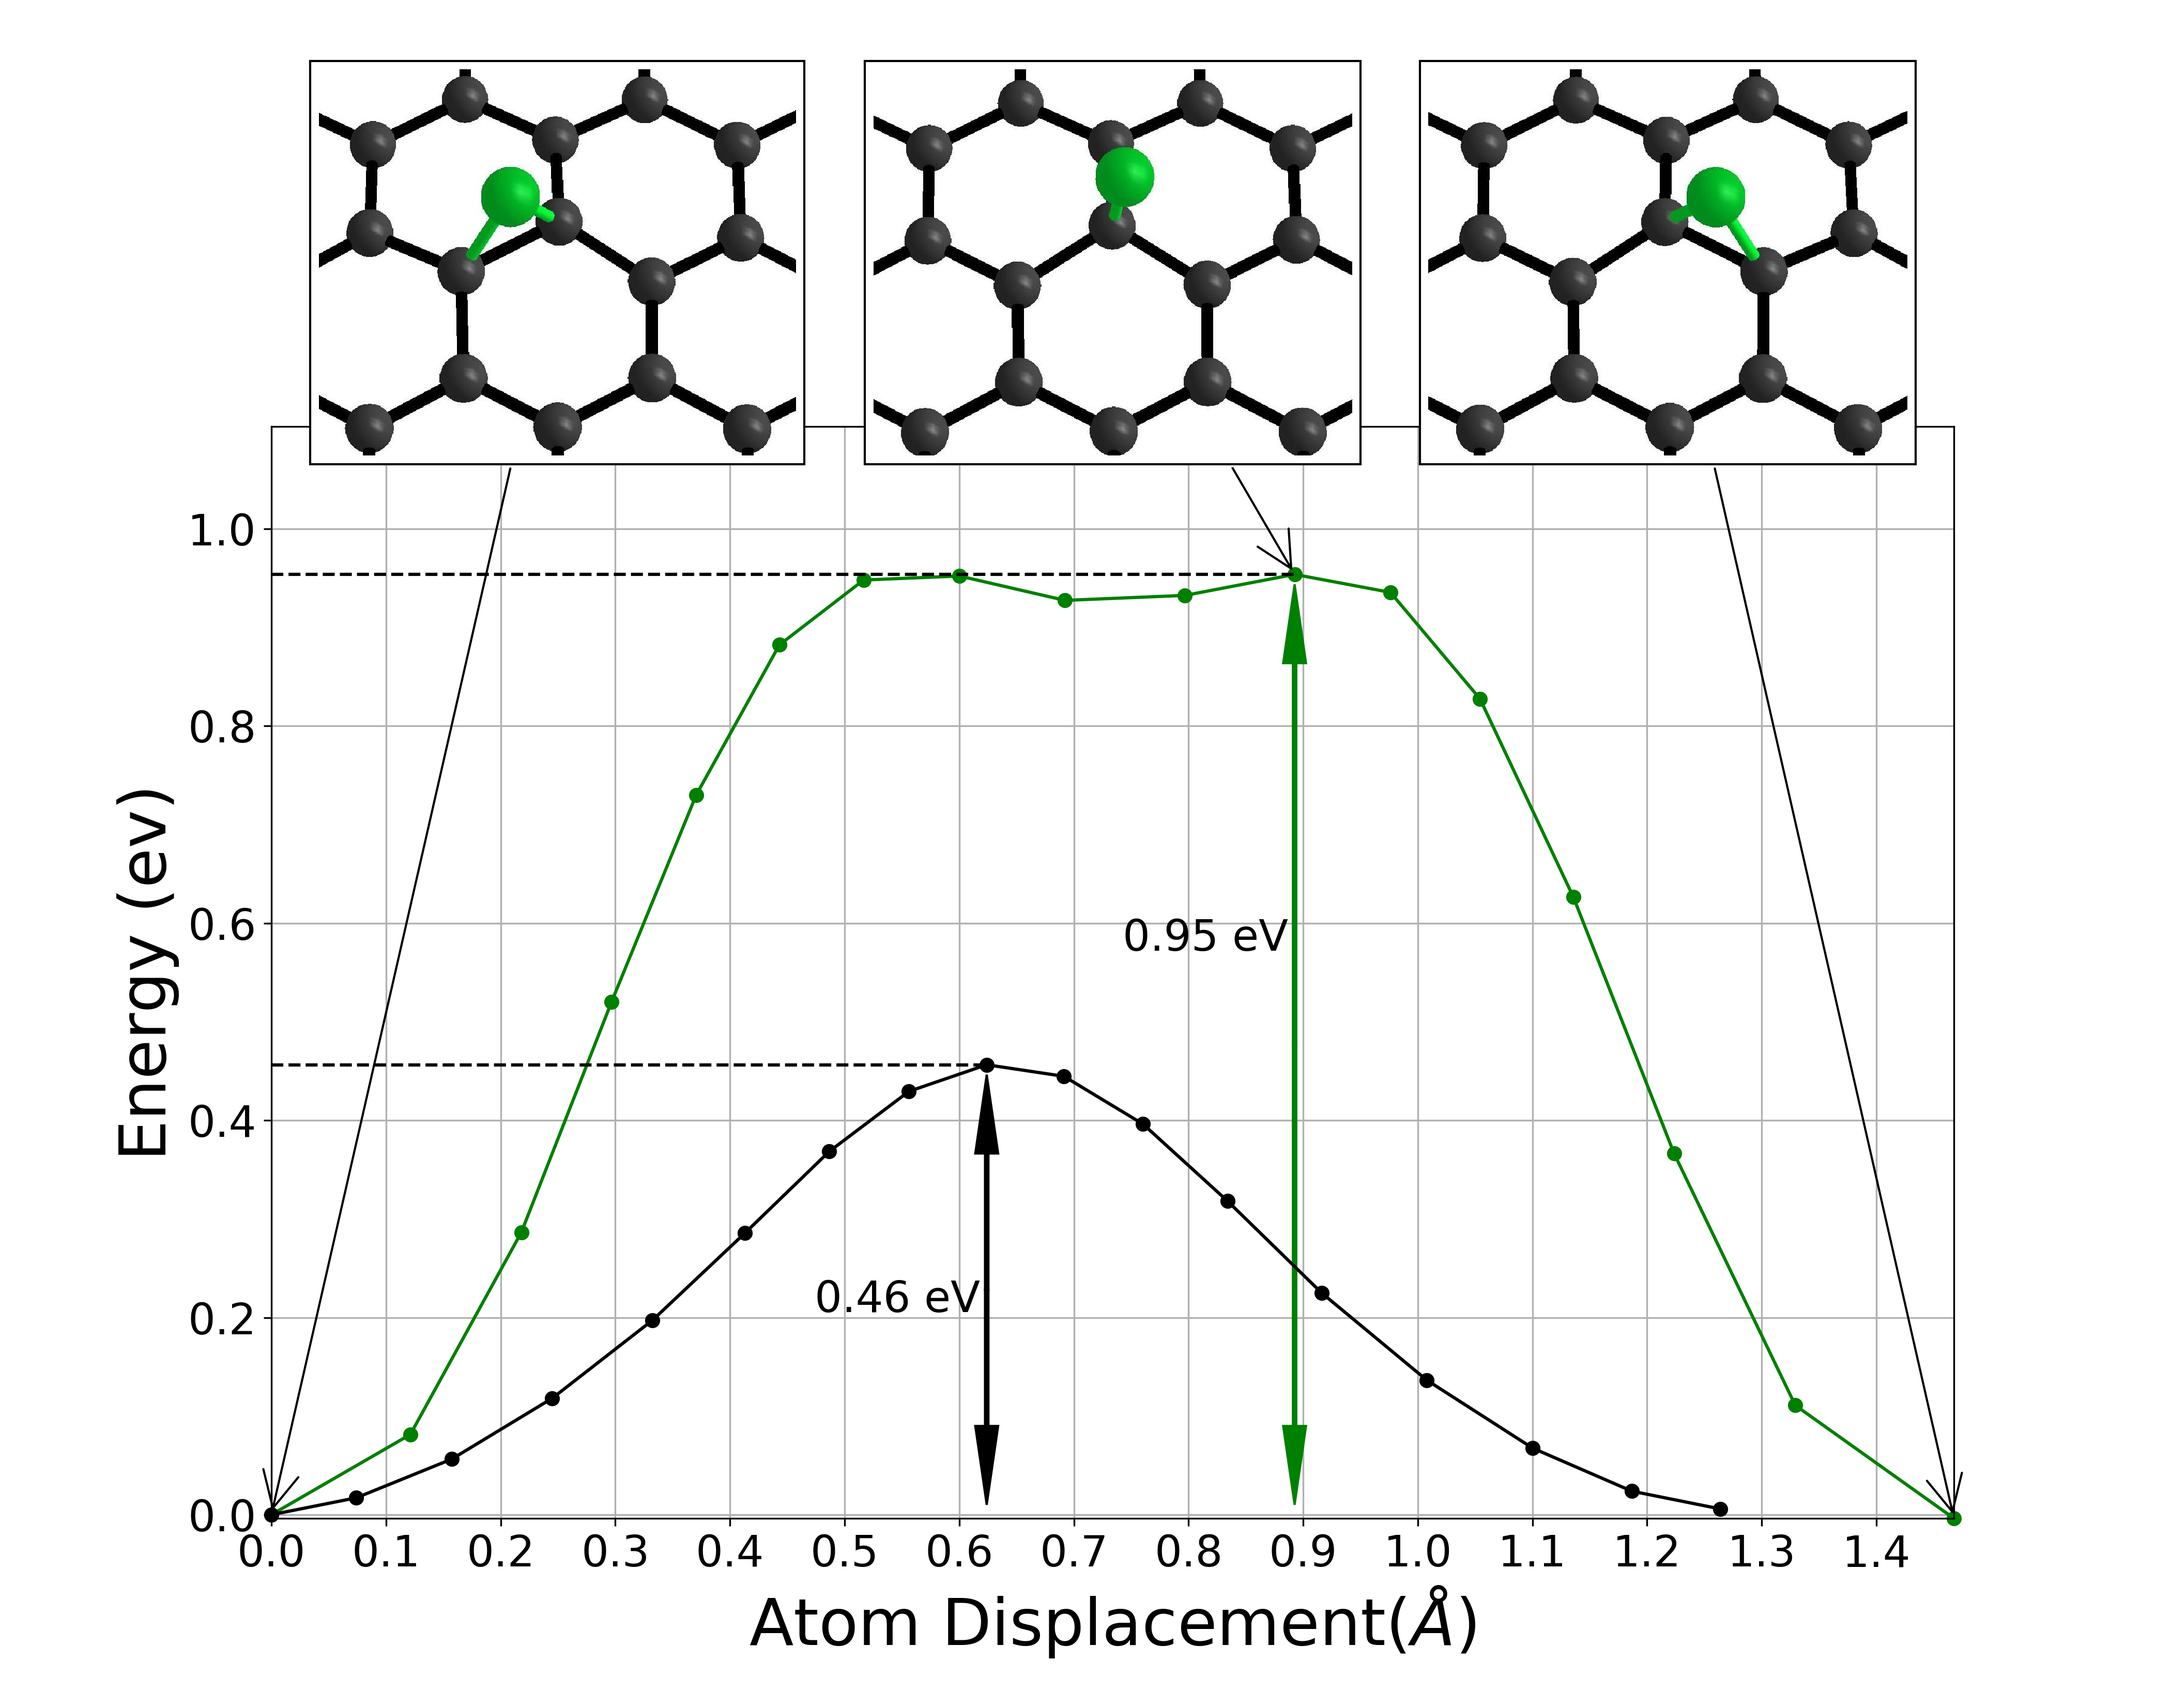
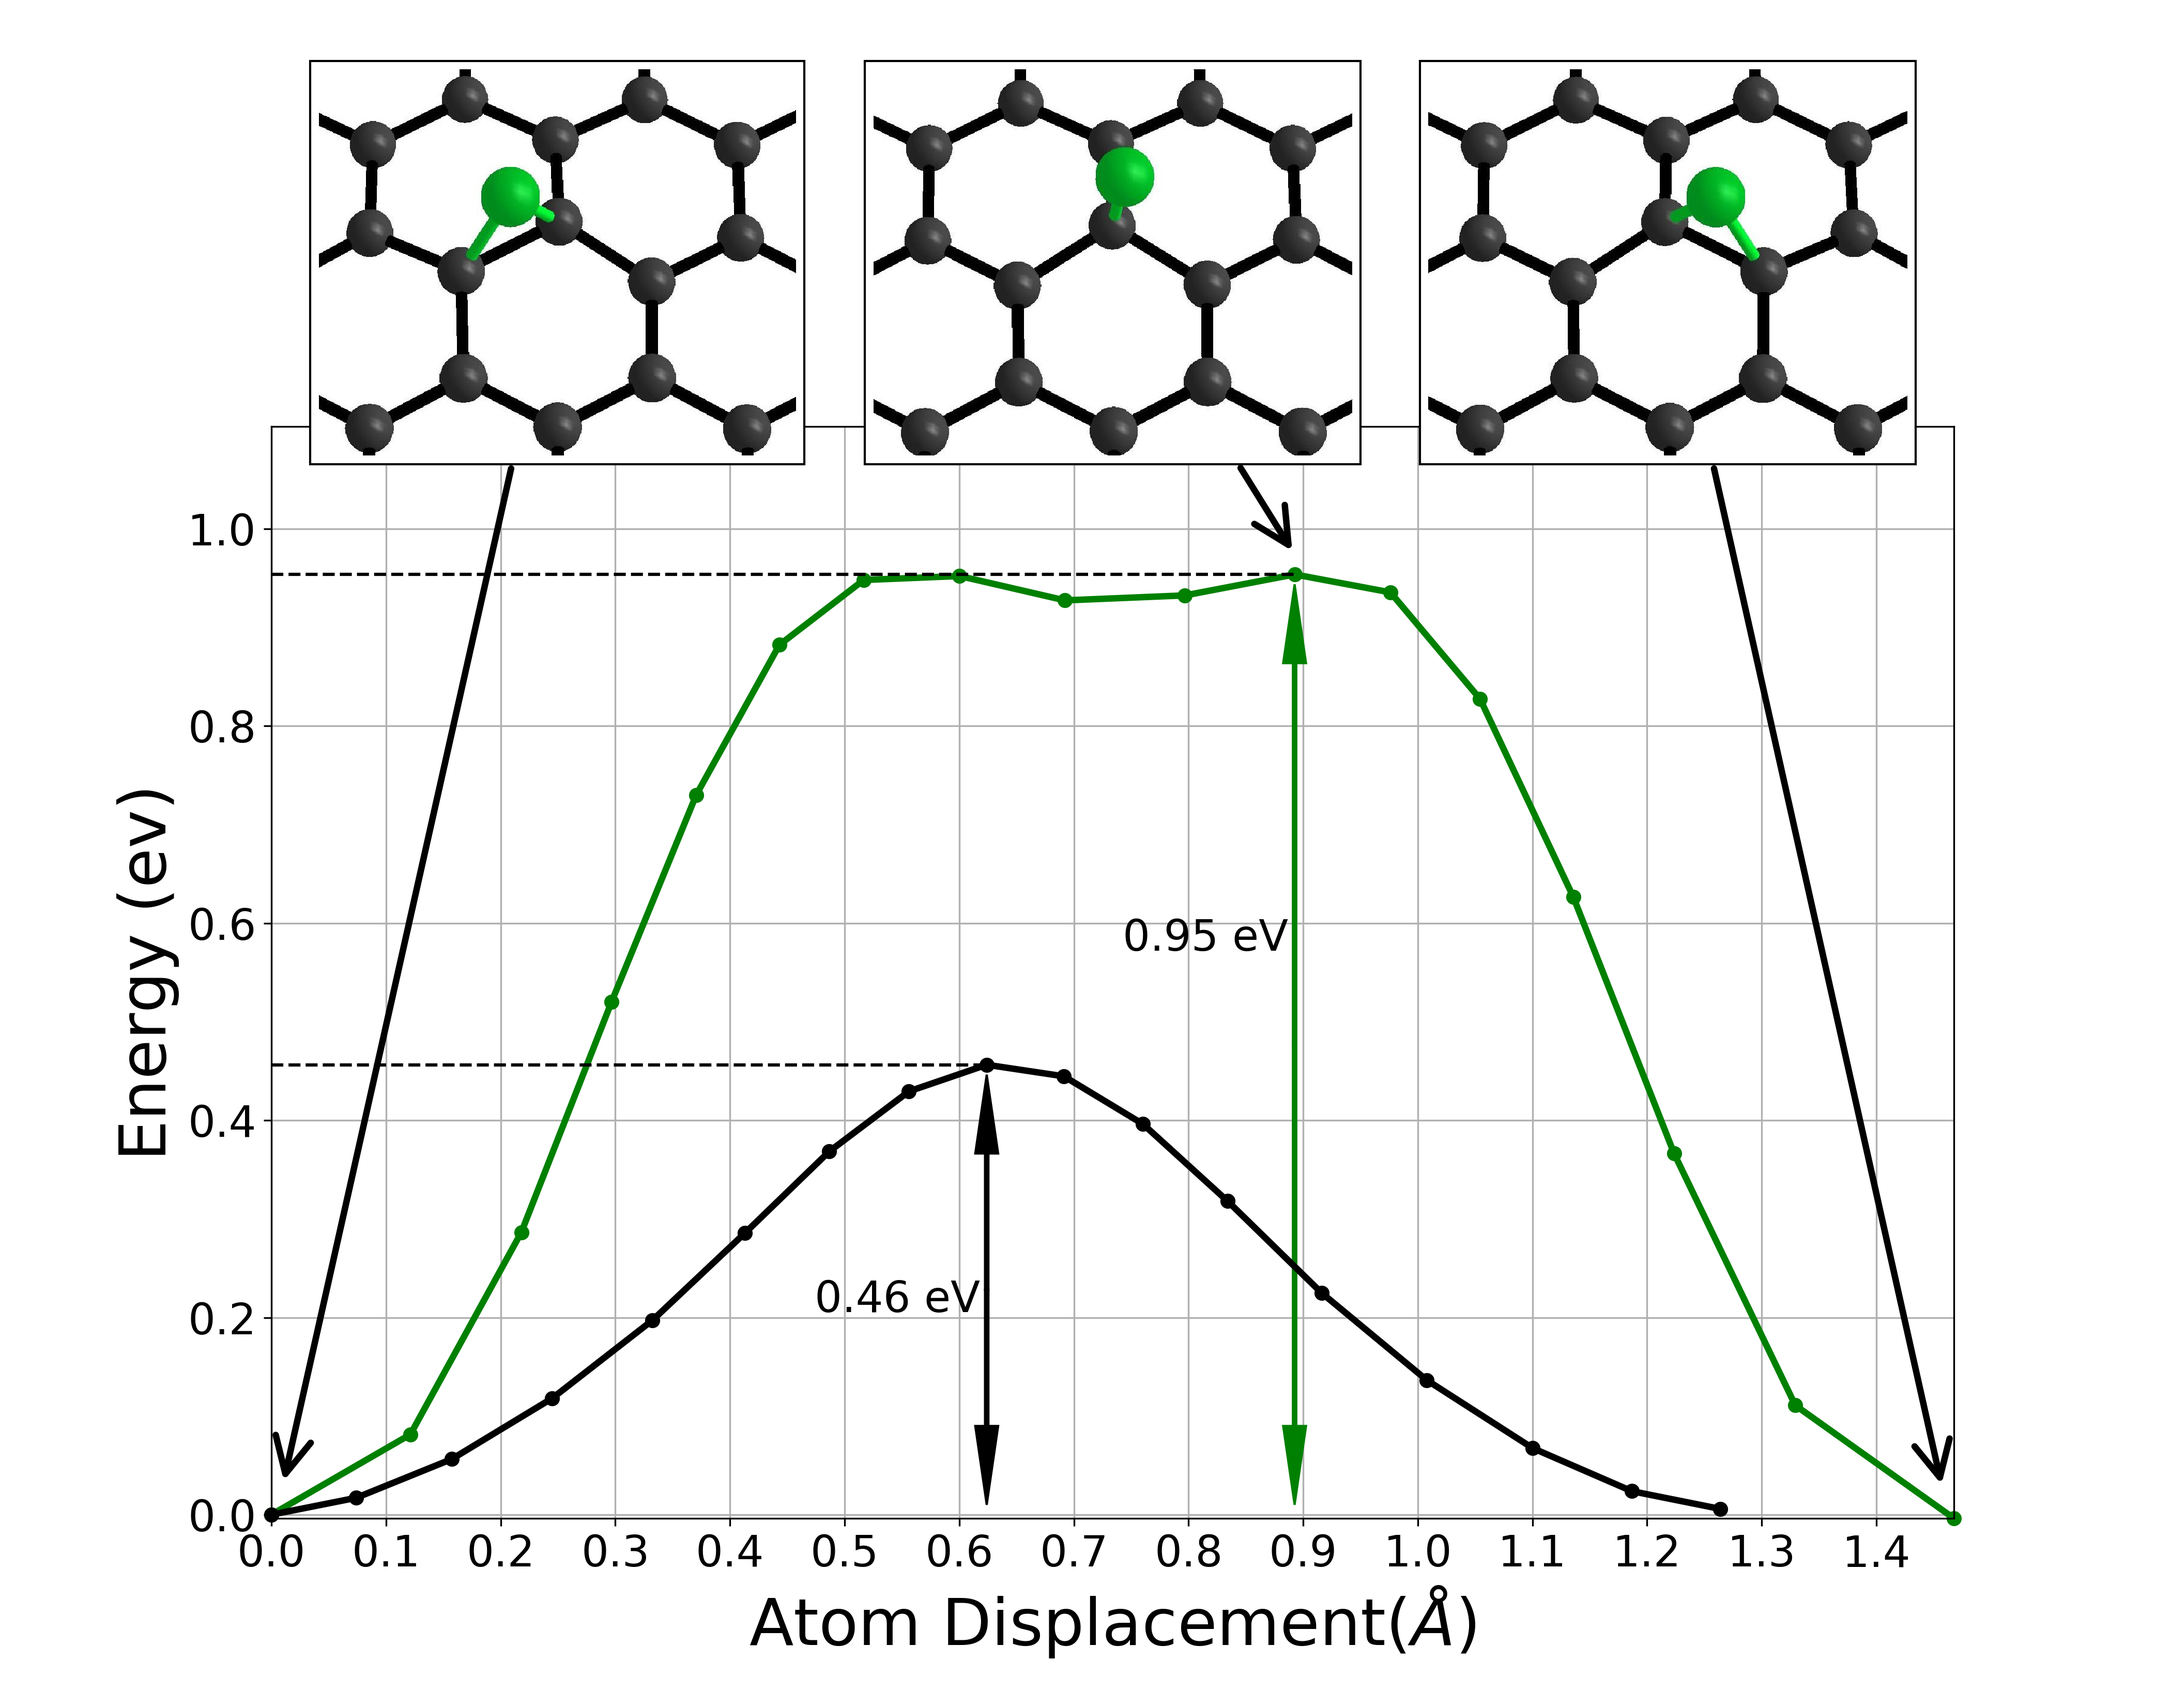
meme chose pour diffusions

diff --git a/figures/diffusions/figure_diffusions.py b/figures/diffusions/figure_diffusions.py
@@ -23,8 +23,8 @@ ax.set_ylabel('Energy (ev)',fontsize=30)
 ax.xaxis.set_ticks(np.arange(distancesN[0], distancesN[-1], 0.1))
 ax.tick_params(labelsize=20)
 
-ax.plot(distancesN, reactionN,'-o',color='g', clip_on=False)
-ax.plot(distancesC, reactionC,'-o',color='k', clip_on=False)
+ax.plot(distancesN, reactionN,'-o',color='g', linewidth=3, clip_on=False)
+ax.plot(distancesC, reactionC,'-o',color='k', linewidth=3, clip_on=False)
 ax.grid(True)
 ax.set_axisbelow(True)
 
@@ -62,15 +62,15 @@ imagebox1.image.axes = ax
 imagebox2.image.axes = ax
 imagebox3.image.axes = ax
 
-ab1 = AnnotationBbox(imagebox1, [distancesN[0], reactionN[0]],
+ab1 = AnnotationBbox(imagebox1, [distancesN[0]+0.01, reactionN[0] + 0.03],
                     xybox = [0.17 * distancesN[-1], 1.27],
-                    arrowprops=dict(arrowstyle = "->"))
-ab2 = AnnotationBbox(imagebox2, [distancesN[maxN], reactionN[maxN]],
+                    arrowprops=dict(arrowstyle='->', linewidth=3))
+ab2 = AnnotationBbox(imagebox2, [distancesN[maxN], reactionN[maxN] + 0.02],
                     xybox = [0.5 * distancesN[-1], 1.27],
-                    arrowprops=dict(arrowstyle = "->"))
-ab3 = AnnotationBbox(imagebox3, [distancesN[-1], reactionN[-1]],
+                    arrowprops=dict(arrowstyle='->', linewidth=3))
+ab3 = AnnotationBbox(imagebox3, [distancesN[-1]-0.01, reactionN[-1] + 0.03],
                     xybox = [0.83 * distancesN[-1], 1.27],
-                    arrowprops=dict(arrowstyle = "->"))
+                    arrowprops=dict(arrowstyle='->', linewidth=3))
 
 ax.add_artist(ab1)
 ax.add_artist(ab2)
